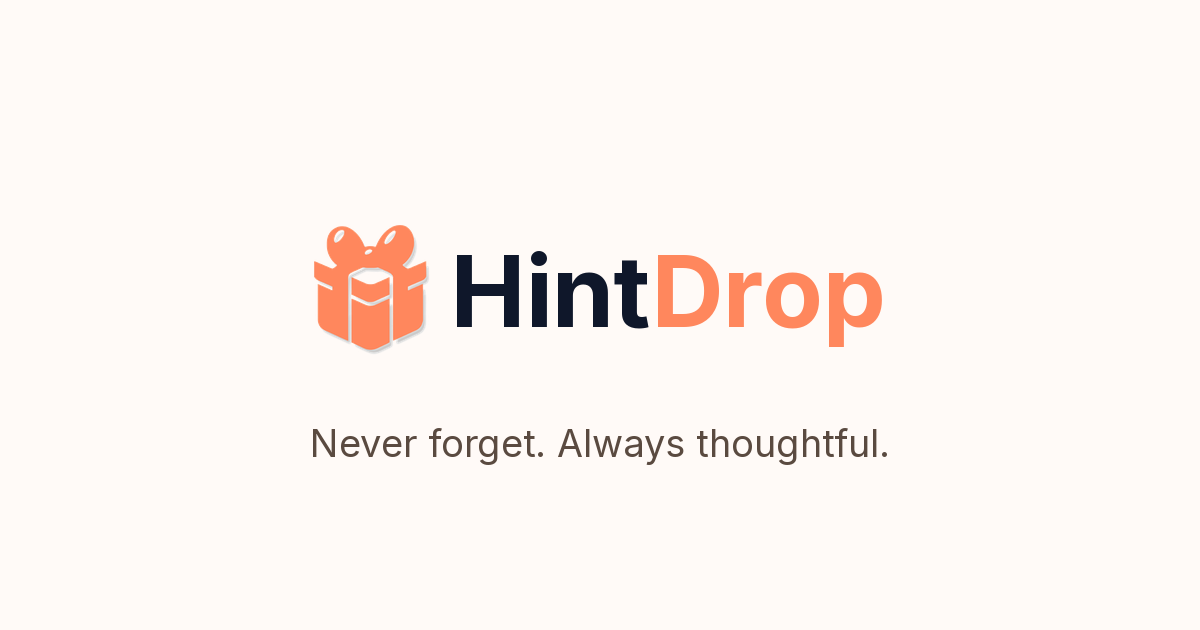
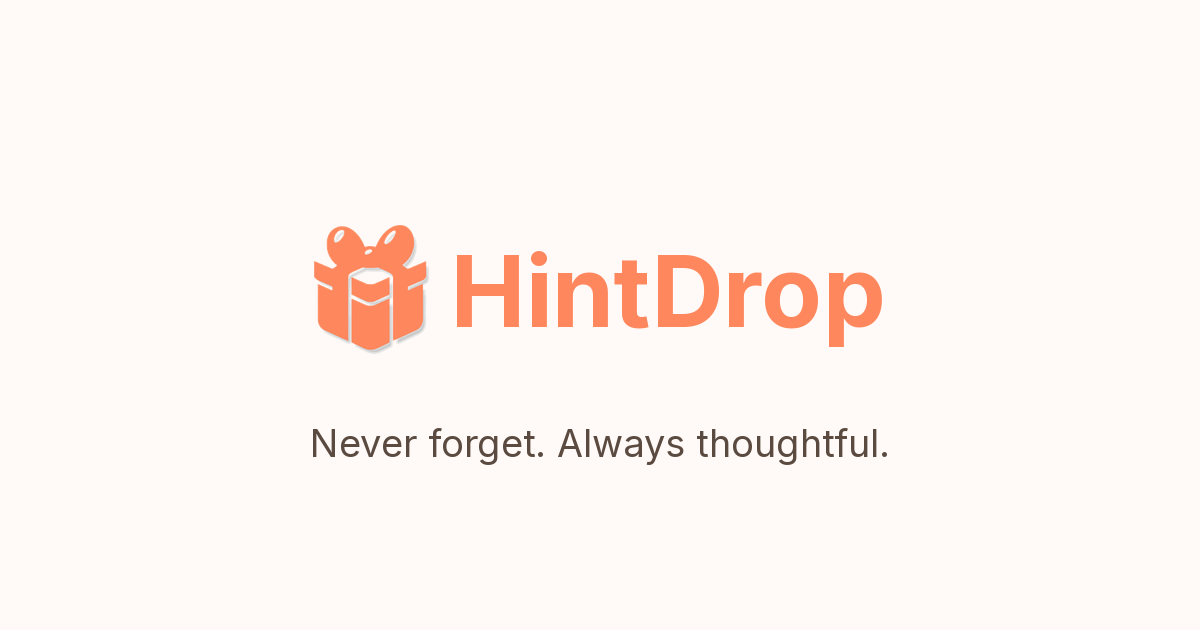
Make the HintDrop wordmark all coral everywhere
Removed the black 'Hint' + coral 'Drop' split in favor of solid
#ff875d across all four live-text instances (main header, homepage,
logged-out shell, unsubscribe page), both dynamic OG image generators
(homepage, invite page), and the static og-default-v2.png share image.

Changed region(s): [[0.37, 0.3921, 0.555, 0.5429]]

diff --git a/app/opengraph-image.js b/app/opengraph-image.js
@@ -60,12 +60,8 @@ export default async function Image() {
           <img src={BRAND_ICON_OG_DATA_URI} width={187} height={220} style={{ objectFit: "contain" }} />
           {/* fontWeight 700 - the heaviest bundled here, matching the
               sitewide Inter weights actually loaded (400/600/700). */}
-          <div style={{ display: "flex", fontSize: 96, fontWeight: 700, letterSpacing: -4.8 }}>
-            <span style={{ color: "#0f172a" }}>Hint</span>
-            {/* Exact brand coral, #ff875d — no longer needs deepening for
-                readability now that the background is the light site
-                background instead of a peach gradient. */}
-            <span style={{ color: "#ff875d" }}>Drop</span>
+          <div style={{ display: "flex", fontSize: 96, fontWeight: 700, letterSpacing: -4.8, color: "#ff875d" }}>
+            HintDrop
           </div>
         </div>
         <div

diff --git a/app/join/[ownerId]/opengraph-image.js b/app/join/[ownerId]/opengraph-image.js
@@ -136,12 +136,8 @@ export default async function Image({ params }) {
             {/* eslint-disable-next-line @next/next/no-img-element */}
             <img src={BRAND_ICON_OG_DATA_URI} width={48} height={48} style={{ objectFit: "contain" }} />
           </div>
-          <div style={{ display: "flex", fontSize: 32, fontWeight: 700, letterSpacing: -1.6 }}>
-            <span style={{ color: "#0f172a" }}>Hint</span>
-            {/* Exact brand coral now that the background is the light
-                site background instead of the peach gradient — matches
-                the fix already applied to the main opengraph-image.js. */}
-            <span style={{ color: "#ff875d" }}>Drop</span>
+          <div style={{ display: "flex", fontSize: 32, fontWeight: 700, letterSpacing: -1.6, color: "#ff875d" }}>
+            HintDrop
           </div>
         </div>
       </div>

diff --git a/app/components/PublicShell.jsx b/app/components/PublicShell.jsx
@@ -19,8 +19,8 @@ export default function PublicShell({ children }) {
         <div className="mx-auto flex max-w-[1380px] items-center justify-between px-5 py-4 md:px-8">
           <Link href="/" className="flex items-center gap-3">
             <LogoMark />
-            <div className="text-[22px] font-bold tracking-[-0.01em] text-slate-900">
-              Hint<span className="text-[#ff875d]">Drop</span>
+            <div className="text-[22px] font-bold tracking-[-0.01em] text-[#ff875d]">
+              HintDrop
             </div>
           </Link>
           <div className="flex items-center gap-3">

diff --git a/app/unsubscribe/UnsubscribeClient.jsx b/app/unsubscribe/UnsubscribeClient.jsx
@@ -92,8 +92,8 @@ export default function UnsubscribeClient() {
         <div className="flex items-center gap-2 mb-6">
           {/* eslint-disable-next-line @next/next/no-img-element */}
           <img src="/illustrations/giftbox-icon-v2.png" alt="" width={28} height={28} className="object-contain" />
-          <span className="text-[18px] font-bold tracking-[-0.01em] text-slate-900">
-            Hint<span className="text-[#ff875d]">Drop</span>
+          <span className="text-[18px] font-bold tracking-[-0.01em] text-[#ff875d]">
+            HintDrop
           </span>
         </div>
 

diff --git a/app/components/HomePageClient.jsx b/app/components/HomePageClient.jsx
@@ -212,8 +212,8 @@ function LandingLogo() {
           corporate. */}
       {/* eslint-disable-next-line @next/next/no-img-element */}
       <img src="/illustrations/giftbox-icon-v2.png" alt="" width={32} height={38} className="object-contain" />
-      <div className="text-[20px] font-bold tracking-[-0.01em] text-slate-900">
-        Hint<span className="text-[#ff875d]">Drop</span>
+      <div className="text-[20px] font-bold tracking-[-0.01em] text-[#ff875d]">
+        HintDrop
       </div>
     </div>
   );
